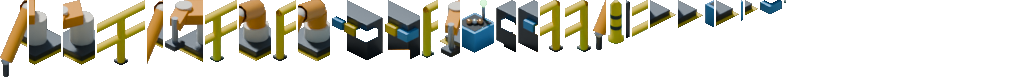
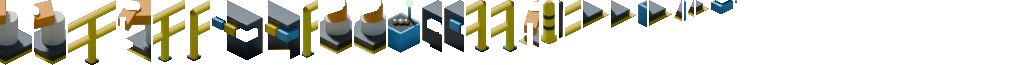
feat(cage): factory and gym machinery moves (local review)
Rig elements from the masters: conveyor and treadmill belts scroll along
their axis by the slat spacing, six-axis arms swing about their shoulder,
gantry quills slide, bike flywheels spin. The shader resamples the exact
frame through the inverse transform inside the union of the part's still
and moved outlines (belts wrap one period upstream), at the part's ground
depth; the static copies are left out of the occluders.

diff --git a/src/championship/presentation/cageAmbient.js b/src/championship/presentation/cageAmbient.js
@@ -55,6 +55,40 @@ void main() {
   float a = max(w.a, atlasAt(src).a);
   finalColor = texture(uBase, uBaseMap.xy + src * uBaseMap.zw) * a * uColor.a;
 }`;
+// Rigid parts (spin / swing / slide) resample the frame through the inverse
+// transform inside the union of their still and moved outlines; belts sample
+// upstream along their axis and wrap back one slat period at the ends.
+const RIG_FRAGMENT = `in vec2 vUV;
+uniform sampler2D uBase;
+uniform sampler2D uAtlas;
+uniform vec2 uSize;
+uniform vec4 uBaseMap;
+uniform vec4 uAtlasMap;
+uniform vec4 uXf;
+uniform vec4 uOff;
+uniform vec4 uBelt;
+uniform float uMode;
+uniform vec4 uColor;
+out vec4 finalColor;
+float maskAt(vec2 p) {
+  if (p.x < 0.0 || p.y < 0.0 || p.x > uSize.x || p.y > uSize.y) return 0.0;
+  return texture(uAtlas, uAtlasMap.xy + p * uAtlasMap.zw).a;
+}
+void main() {
+  vec2 p = vUV * uSize;
+  vec2 src;
+  float a;
+  if (uMode < 0.5) {
+    vec2 q = p - uOff.xy;
+    src = vec2(uXf.x * q.x + uXf.y * q.y, uXf.z * q.x + uXf.w * q.y) + uOff.xy - uOff.zw;
+    a = max(maskAt(p), maskAt(src));
+  } else {
+    src = p - uBelt.xy * uBelt.w;
+    if (maskAt(src) < 0.5) src += uBelt.xy * uBelt.z;
+    a = maskAt(p);
+  }
+  finalColor = texture(uBase, uBaseMap.xy + src * uBaseMap.zw) * a * uColor.a;
+}`;
 const WATER_FRAGMENT = `in vec2 vUV;
 uniform sampler2D uTile;
 uniform sampler2D uAtlas;
@@ -165,7 +199,7 @@ export async function withCageAmbient({PIXI, art, manifest, placements, renderer
     return best;
   };
 
-  const roots = [], glows = [], systems = [], disposers = [];
+  const roots = [], glows = [], rigs = [], systems = [], disposers = [];
   let winds = 0, waters = 0;
   // One time uniform shared by every wind and water mesh: a single update per frame.
   const clock = new PIXI.UniformGroup({uTime: {value: 0, type: 'f32'}});
@@ -205,6 +239,24 @@ export async function withCageAmbient({PIXI, art, manifest, placements, renderer
             resources: {uBase: base.texture.source, uAtlas: atlas.source, cageWind: uniforms, cageClock: clock}});
           place(m.mesh, e, depth ?? BASE_LAYER_Z);
           winds += 1; disposers.push(m.destroy);
+        } else if (e.kind === 'rig') {
+          if (reducedMotion) continue;
+          const uniforms = new PIXI.UniformGroup({
+            uSize: {value: new Float32Array([e.width, e.height]), type: 'vec2<f32>'},
+            uBaseMap: {value: new Float32Array([
+              (base.texture.frame.x + (e.x - offX) * scaleX) / base.texture.source.width,
+              (base.texture.frame.y + (e.y - offY) * scaleY) / base.texture.source.height,
+              scaleX / base.texture.source.width, scaleY / base.texture.source.height]), type: 'vec4<f32>'},
+            uAtlasMap: {value: new Float32Array(mapRect(atlas, e.atlasX, e.atlasY)), type: 'vec4<f32>'},
+            uXf: {value: new Float32Array([1, 0, 0, 1]), type: 'vec4<f32>'},
+            uOff: {value: new Float32Array([e.pivot?.[0] ?? 0, e.pivot?.[1] ?? 0, 0, 0]), type: 'vec4<f32>'},
+            uBelt: {value: new Float32Array([e.dir?.[0] ?? 0, e.dir?.[1] ?? 0, e.period ?? 12, 0]), type: 'vec4<f32>'},
+            uMode: {value: e.mode === 'belt' ? 1 : 0, type: 'f32'}
+          });
+          const m = shaderMesh(PIXI, {w: e.width, h: e.height, fragment: RIG_FRAGMENT, label: 'cage-rig',
+            resources: {uBase: base.texture.source, uAtlas: atlas.source, cageRig: uniforms}});
+          place(m.mesh, e, depth ?? BASE_LAYER_Z);
+          rigs.push({e, group: uniforms, u: uniforms.uniforms}); disposers.push(m.destroy);
         } else if (e.kind === 'glow') {
           const s = new PIXI.Sprite(new PIXI.Texture({source: atlas.source, frame: new PIXI.Rectangle(e.atlasX, e.atlasY, e.width, e.height)}));
           s.blendMode = 'add'; s.alpha = reducedMotion ? 0.25 : 0;
@@ -260,6 +312,17 @@ export async function withCageAmbient({PIXI, art, manifest, placements, renderer
     elapsed += dt;
     const s = elapsed / 1000;
     clock.uniforms.uTime = s; clock.update();
+    for (const r of rigs) {
+      const {e, u} = r;
+      if (e.mode === 'belt') u.uBelt[3] = (s * e.speed) % e.period;
+      else if (e.mode === 'slide') { const k = e.amp * (0.5 + 0.5 * Math.sin(s * e.speed + e.phase)); u.uOff[2] = e.dir[0] * k; u.uOff[3] = e.dir[1] * k; }
+      else {
+        const angle = e.mode === 'spin' ? s * e.speed : e.amp * Math.sin(s * e.speed + e.phase);
+        const c = Math.cos(angle), sn = Math.sin(angle);
+        u.uXf[0] = c; u.uXf[1] = sn; u.uXf[2] = -sn; u.uXf[3] = c;  // inverse rotation
+      }
+      r.group.update();
+    }
     if (!reducedMotion) for (const gl of glows) {
       const k = gl.mode === 'flicker' ? 0.55 + 0.25 * Math.sin(s * 9 + gl.phase) * Math.sin(s * 3.7 + gl.seed)
         : gl.mode === 'screen' ? 0.32 + 0.12 * Math.sin(s * 6 + gl.phase) + (Math.sin(s * 23 + gl.seed) > 0.96 ? 0.25 : 0)
@@ -309,7 +372,7 @@ export async function withCageAmbient({PIXI, art, manifest, placements, renderer
       for (const r of roots) { r.root.position.set(fit.x + r.tileX * fit.scale, fit.y + r.tileY * fit.scale); r.root.scale.set(fit.scale); }
     },
     getDiagnostics() {
-      return {fields: [...cages.keys()], winds, glows: glows.length, waters,
+      return {fields: [...cages.keys()], winds, glows: glows.length, waters, rigs: rigs.length,
         particleSystems: systems.length, roots: roots.length, reducedMotion, quality,
         decodedBytes: [...cages.values()].reduce((n, c) => n + c.data.atlas.decodedBytes, 0) + (waterTile ? waterTile.width * waterTile.height * 4 : 0)};
     }
